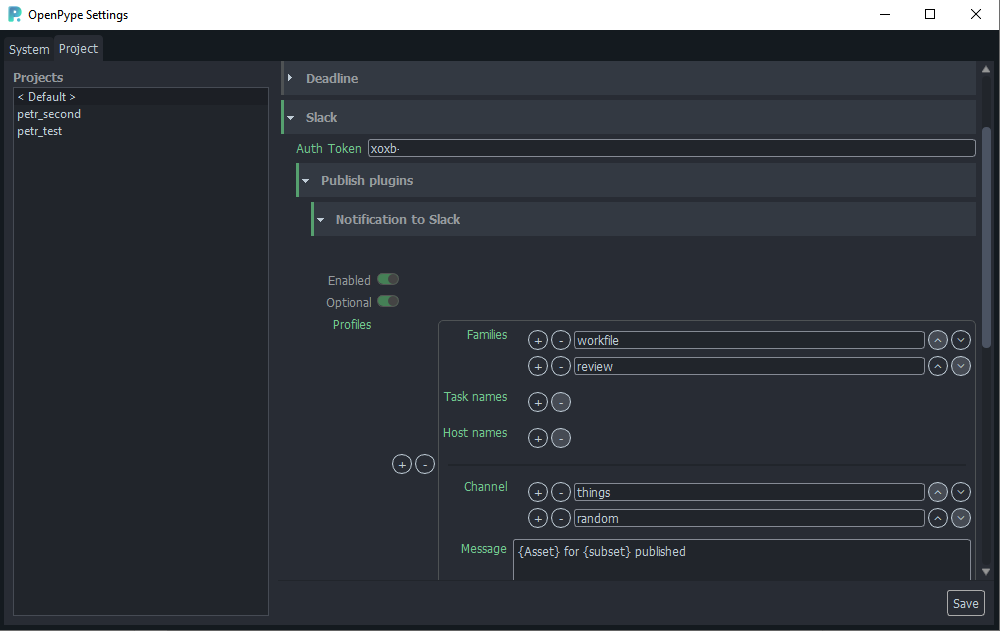
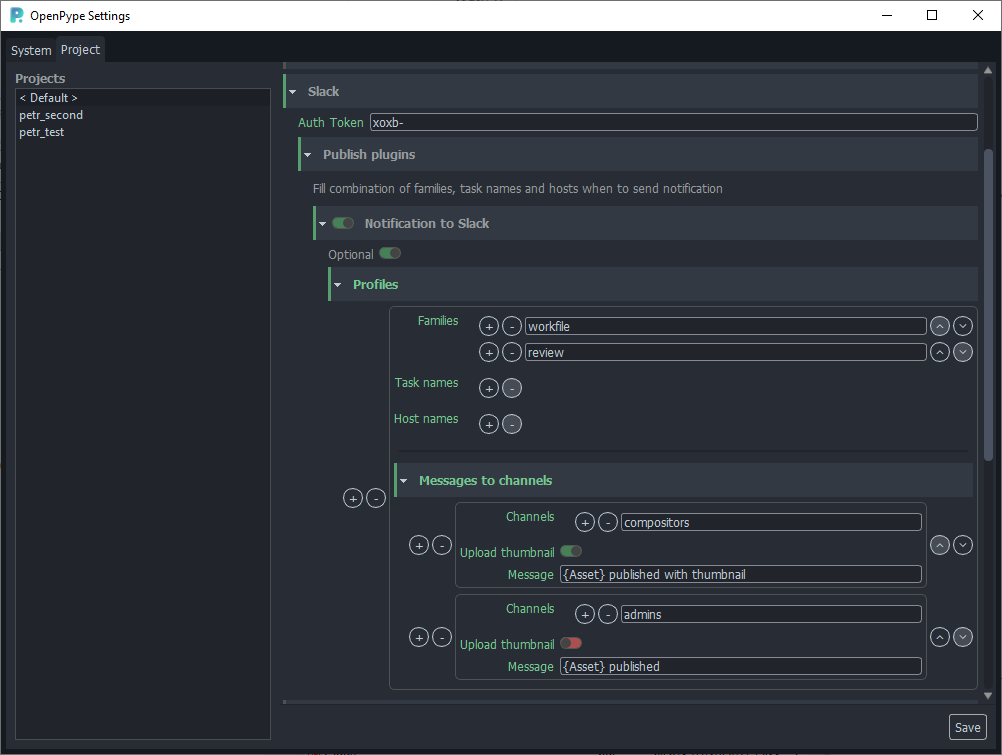
client/#75 - added functionality to send different message to different channel(s)

diff --git a/openpype/modules/slack/plugins/publish/integrate_slack_api.py b/openpype/modules/slack/plugins/publish/integrate_slack_api.py
@@ -23,8 +23,30 @@ class IntegrateSlackAPI(pyblish.api.InstancePlugin):
     optional = True
 
     def process(self, instance):
-        message_templ = instance.data["slack_message"]
+        published_path = self._get_thumbnail_path(instance)
 
+        for message_profile in instance.data["slack_channel_message_profiles"]:
+            message = self._get_filled_message(message_profile["message"],
+                                               instance)
+            if not message:
+                return
+
+            for channel in message_profile["channels"]:
+                if six.PY2:
+                    self._python2_call(instance.data["slack_token"],
+                                       channel,
+                                       message,
+                                       published_path,
+                                       message_profile["upload_thumbnail"])
+                else:
+                    self._python3_call(instance.data["slack_token"],
+                                       channel,
+                                       message,
+                                       published_path,
+                                       message_profile["upload_thumbnail"])
+
+    def _get_filled_message(self, message_templ, instance):
+        """Use message_templ and data from instance to get message content."""
         fill_data = copy.deepcopy(instance.context.data["anatomyData"])
 
         fill_pairs = (
@@ -40,27 +62,15 @@ class IntegrateSlackAPI(pyblish.api.InstancePlugin):
         multiple_case_variants = prepare_template_data(fill_pairs)
         fill_data.update(multiple_case_variants)
 
+        message = None
         try:
             message = message_templ.format(**fill_data)
         except Exception:
             self.log.warning(
                 "Some keys are missing in {}".format(message_templ),
                 exc_info=True)
-            return
 
-        published_path = self._get_thumbnail_path(instance)
-
-        for channel in instance.data["slack_channel"]:
-            if six.PY2:
-                self._python2_call(instance.data["slack_token"],
-                                   channel,
-                                   message,
-                                   published_path)
-            else:
-                self._python3_call(instance.data["slack_token"],
-                                   channel,
-                                   message,
-                                   published_path)
+        return message
 
     def _get_thumbnail_path(self, instance):
         """Returns abs url for thumbnail if present in instance repres"""
@@ -79,11 +89,13 @@ class IntegrateSlackAPI(pyblish.api.InstancePlugin):
                 break
         return published_path
 
-    def _python2_call(self, token, channel, message, published_path):
+    def _python2_call(self, token, channel, message,
+                      published_path, upload_thumbnail):
         from slackclient import SlackClient
         try:
             client = SlackClient(token)
-            if published_path and os.path.exists(published_path):
+            if upload_thumbnail and \
+                    published_path and os.path.exists(published_path):
                 with open(published_path, 'rb') as pf:
                     response = client.api_call(
                         "files.upload",
@@ -108,12 +120,14 @@ class IntegrateSlackAPI(pyblish.api.InstancePlugin):
             error_str = self._enrich_error(str(e), channel)
             self.log.warning("Error happened: {}".format(error_str))
 
-    def _python3_call(self, token, channel, message, published_path):
+    def _python3_call(self, token, channel, message,
+                      published_path, upload_thumbnail):
         from slack_sdk import WebClient
         from slack_sdk.errors import SlackApiError
         try:
             client = WebClient(token=token)
-            if published_path and os.path.exists(published_path):
+            if upload_thumbnail and \
+                    published_path and os.path.exists(published_path):
                 _ = client.files_upload(
                     channels=channel,
                     initial_comment=message,

diff --git a/openpype/modules/slack/plugins/publish/collect_slack_family.py b/openpype/modules/slack/plugins/publish/collect_slack_family.py
@@ -30,7 +30,6 @@ class CollectSlackFamilies(pyblish.api.InstancePlugin):
         profile = filter_profiles(self.profiles, key_values,
                                   logger=self.log)
 
-        self.log.debug("profile ::{}".format(profile))
         # make slack publishable
         if profile:
             if instance.data.get('families'):
@@ -38,8 +37,8 @@ class CollectSlackFamilies(pyblish.api.InstancePlugin):
             else:
                 instance.data['families'] = ['slack']
 
-            instance.data["slack_channel"] = profile["channel"]
-            instance.data["slack_message"] = profile["message"]
+            instance.data["slack_channel_message_profiles"] = \
+                profile["channel_messages"]
 
             slack_token = (instance.context.data["project_settings"]
                                                 ["slack"]

diff --git a/website/docs/module_slack.md b/website/docs/module_slack.md
@@ -48,20 +48,23 @@ Eg. If I want to be notified when render is published from Maya, setting is:
 - family: 'render'
 - host: 'Maya'
 
-### Channel
-Message could be delivered to one or multiple channels, by default app allows Slack bot
+### Messages to channels
+
+#### Channels
+Multiple messages could be delivered to one or multiple channels, by default app allows Slack bot
 to send messages to 'public' channels (eg. bot doesn't need to join the channel first).
 
 ![Configure module](assets/slack_system.png)
 
+#### Upload thumbnail
 Integration can upload 'thumbnail' file (if present in instance), for that bot must be 
 manually added to target channel by Slack admin!
 (In target channel write: ```/invite @OpenPypeNotifier``)
 
-### Message
+#### Message
 Message content can use Templating (see https://openpype.io/docs/admin_settings_project_anatomy/#available-template-keys).
 
-Pre selected set of keys could be used in lowercase, Capitalized or UPPERCASE format, values will be modified accordingly.
+Pre-selected set of keys could be used in lowercase, Capitalized or UPPERCASE format, values will be modified accordingly.
 ({Asset} >> "Asset", {FAMILY} >> "RENDER")
 
 **Available keys:**
